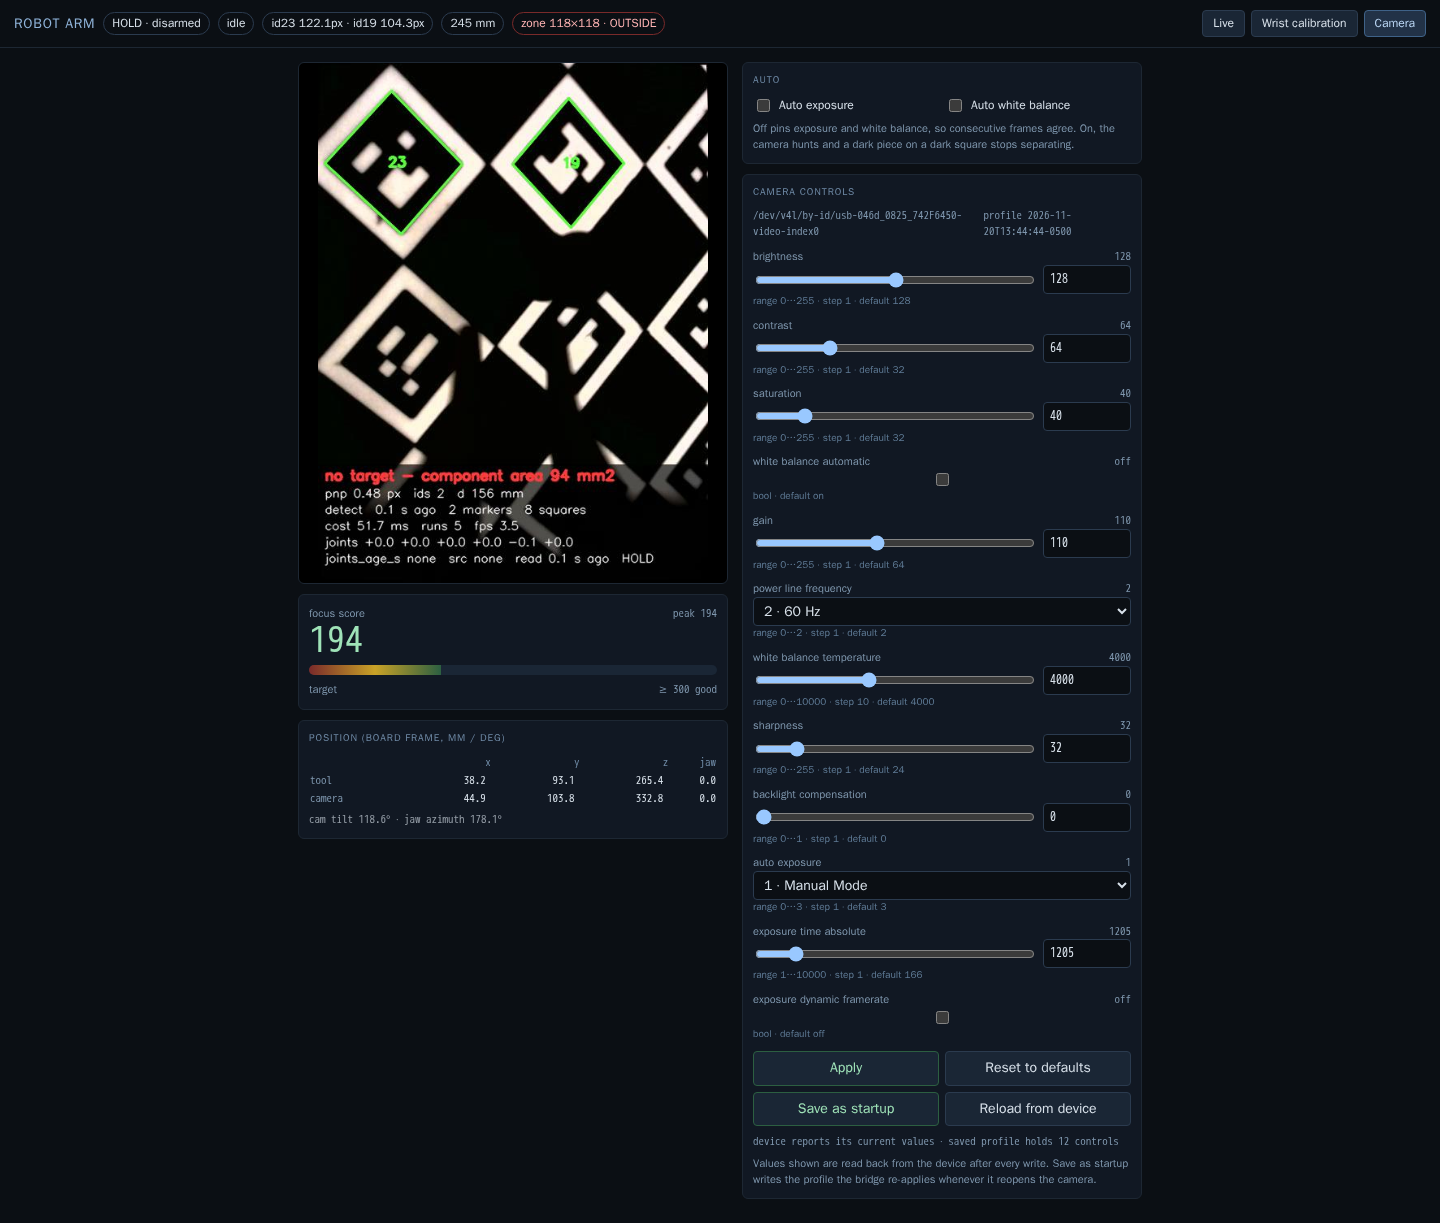
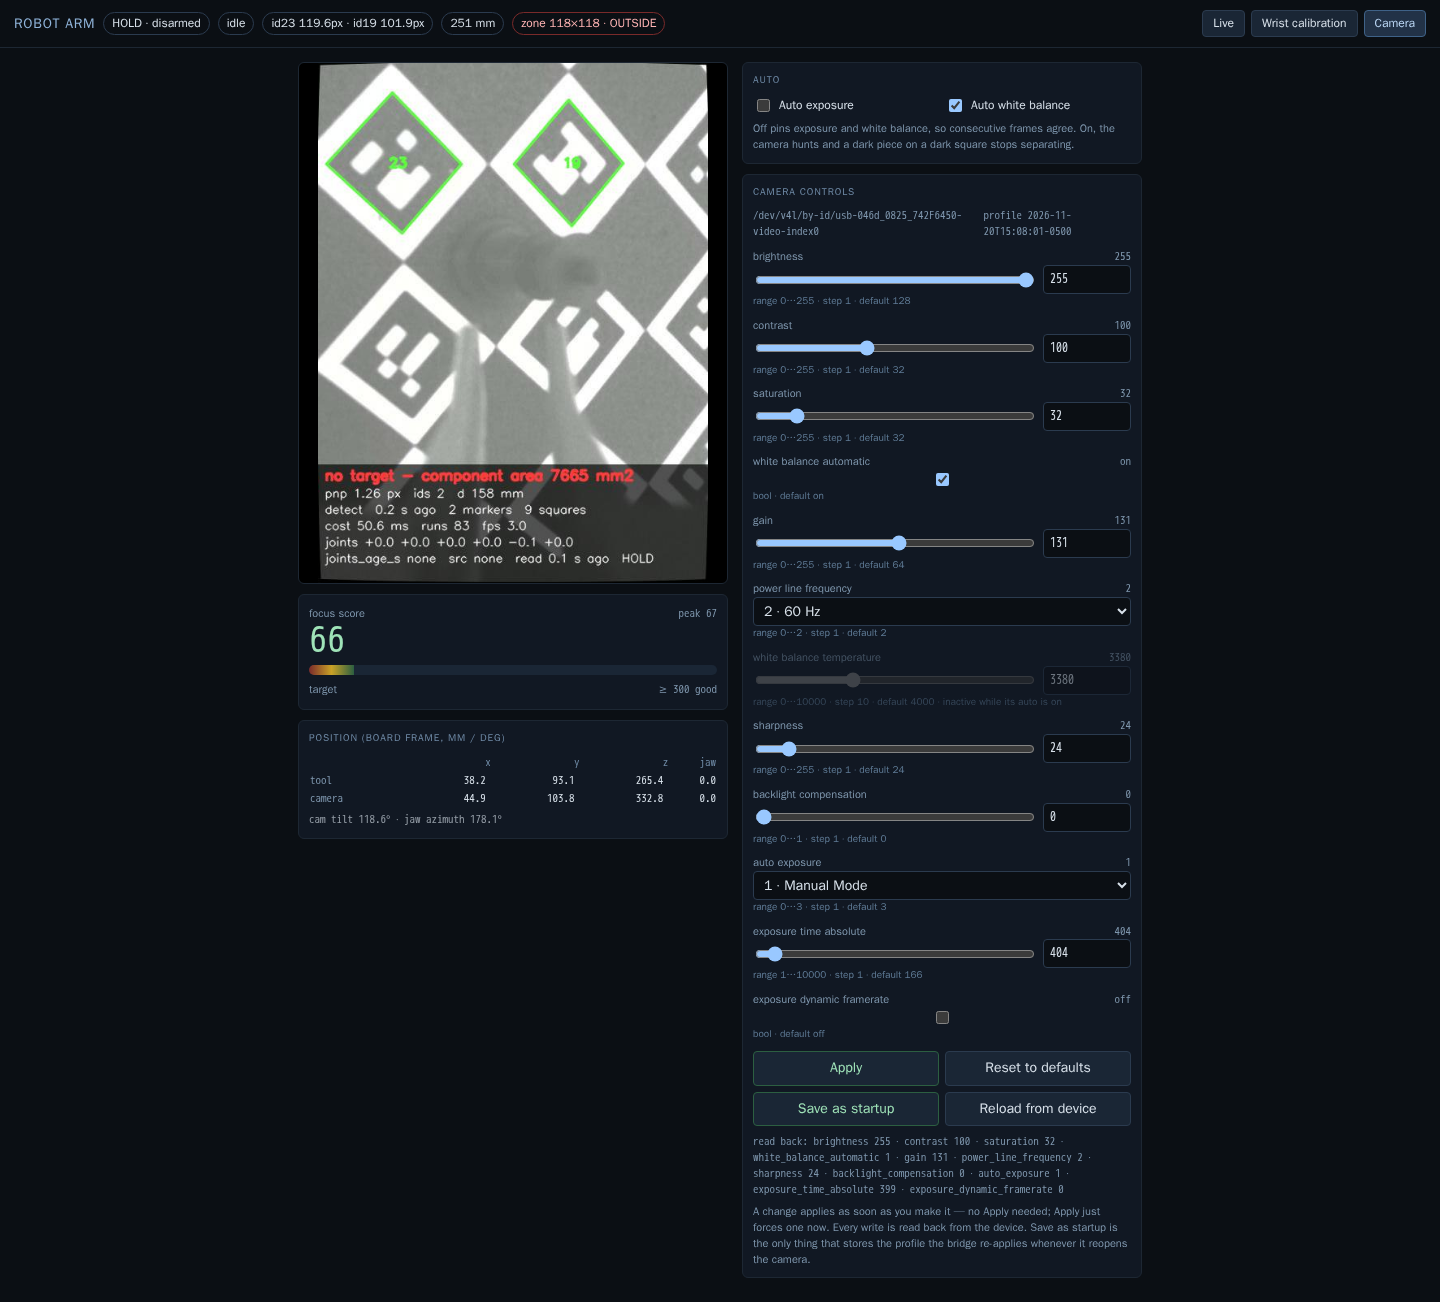
p3: treat up to 5 device units as rounding, refresh tab art

diff --git a/live/app.py b/live/app.py
@@ -2255,14 +2255,15 @@ function camGather(){
 function camReport(d, saved){
   const read = Object.entries(d.applied || {}).map(([k, v]) => k + ' ' + v);
   // The C270 snaps some values onto its own grid (exposure moves in 5s, gain
-  // in 2s).  A difference inside two steps is the device rounding, not a
-  // value that failed to take, so the two are reported separately.
+  // in 2s) whatever the descriptor advertises.  A difference that small is the
+  // device rounding, not a value that failed to take, so the two are reported
+  // separately.
   const bad = [], rounded = [];
   for (const [k, v] of Object.entries(d.mismatched || {})){
     const control = camFind(k);
     const step = (control && control.step) || 1;
     const text = k + ' ' + v.requested + '→' + v.read_back;
-    (Math.abs(v.read_back - v.requested) <= 2 * step ? rounded : bad).push(text);
+    (Math.abs(v.read_back - v.requested) <= Math.max(2 * step, 5) ? rounded : bad).push(text);
   }
   const skipped = Object.entries(d.skipped || {}).map(([k, why]) => k + ' (' + why + ')');
   el('camStatus').textContent = 'read back: ' + (read.join(' · ') || 'nothing')
